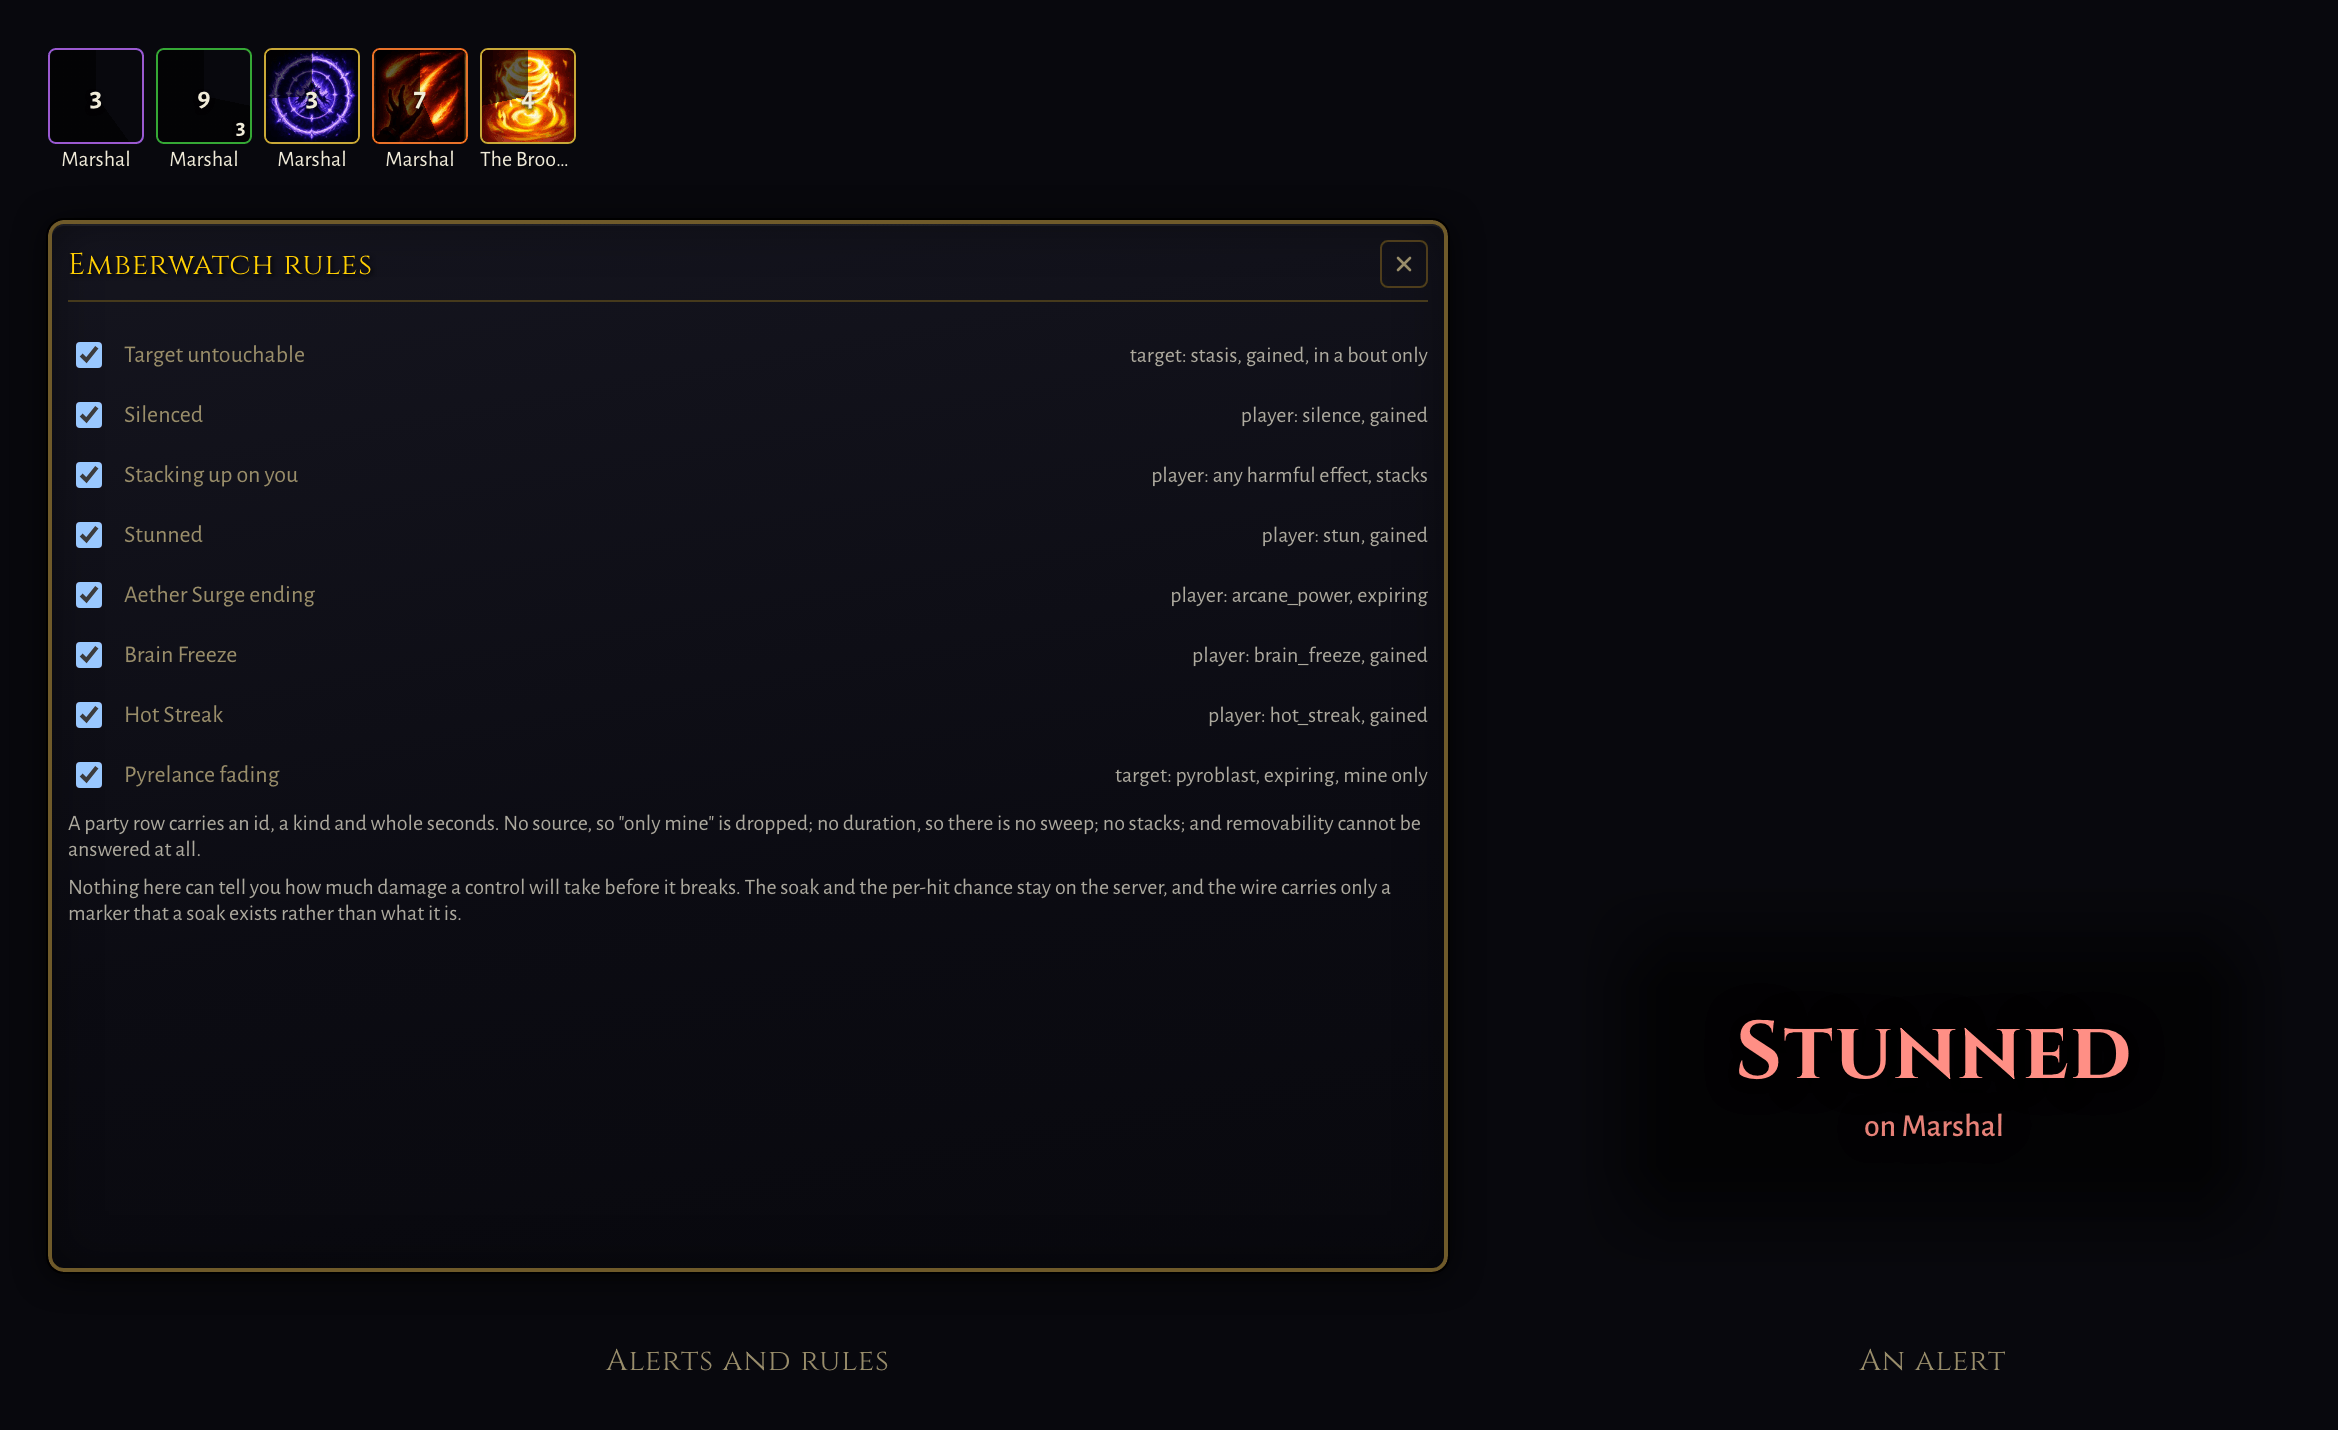
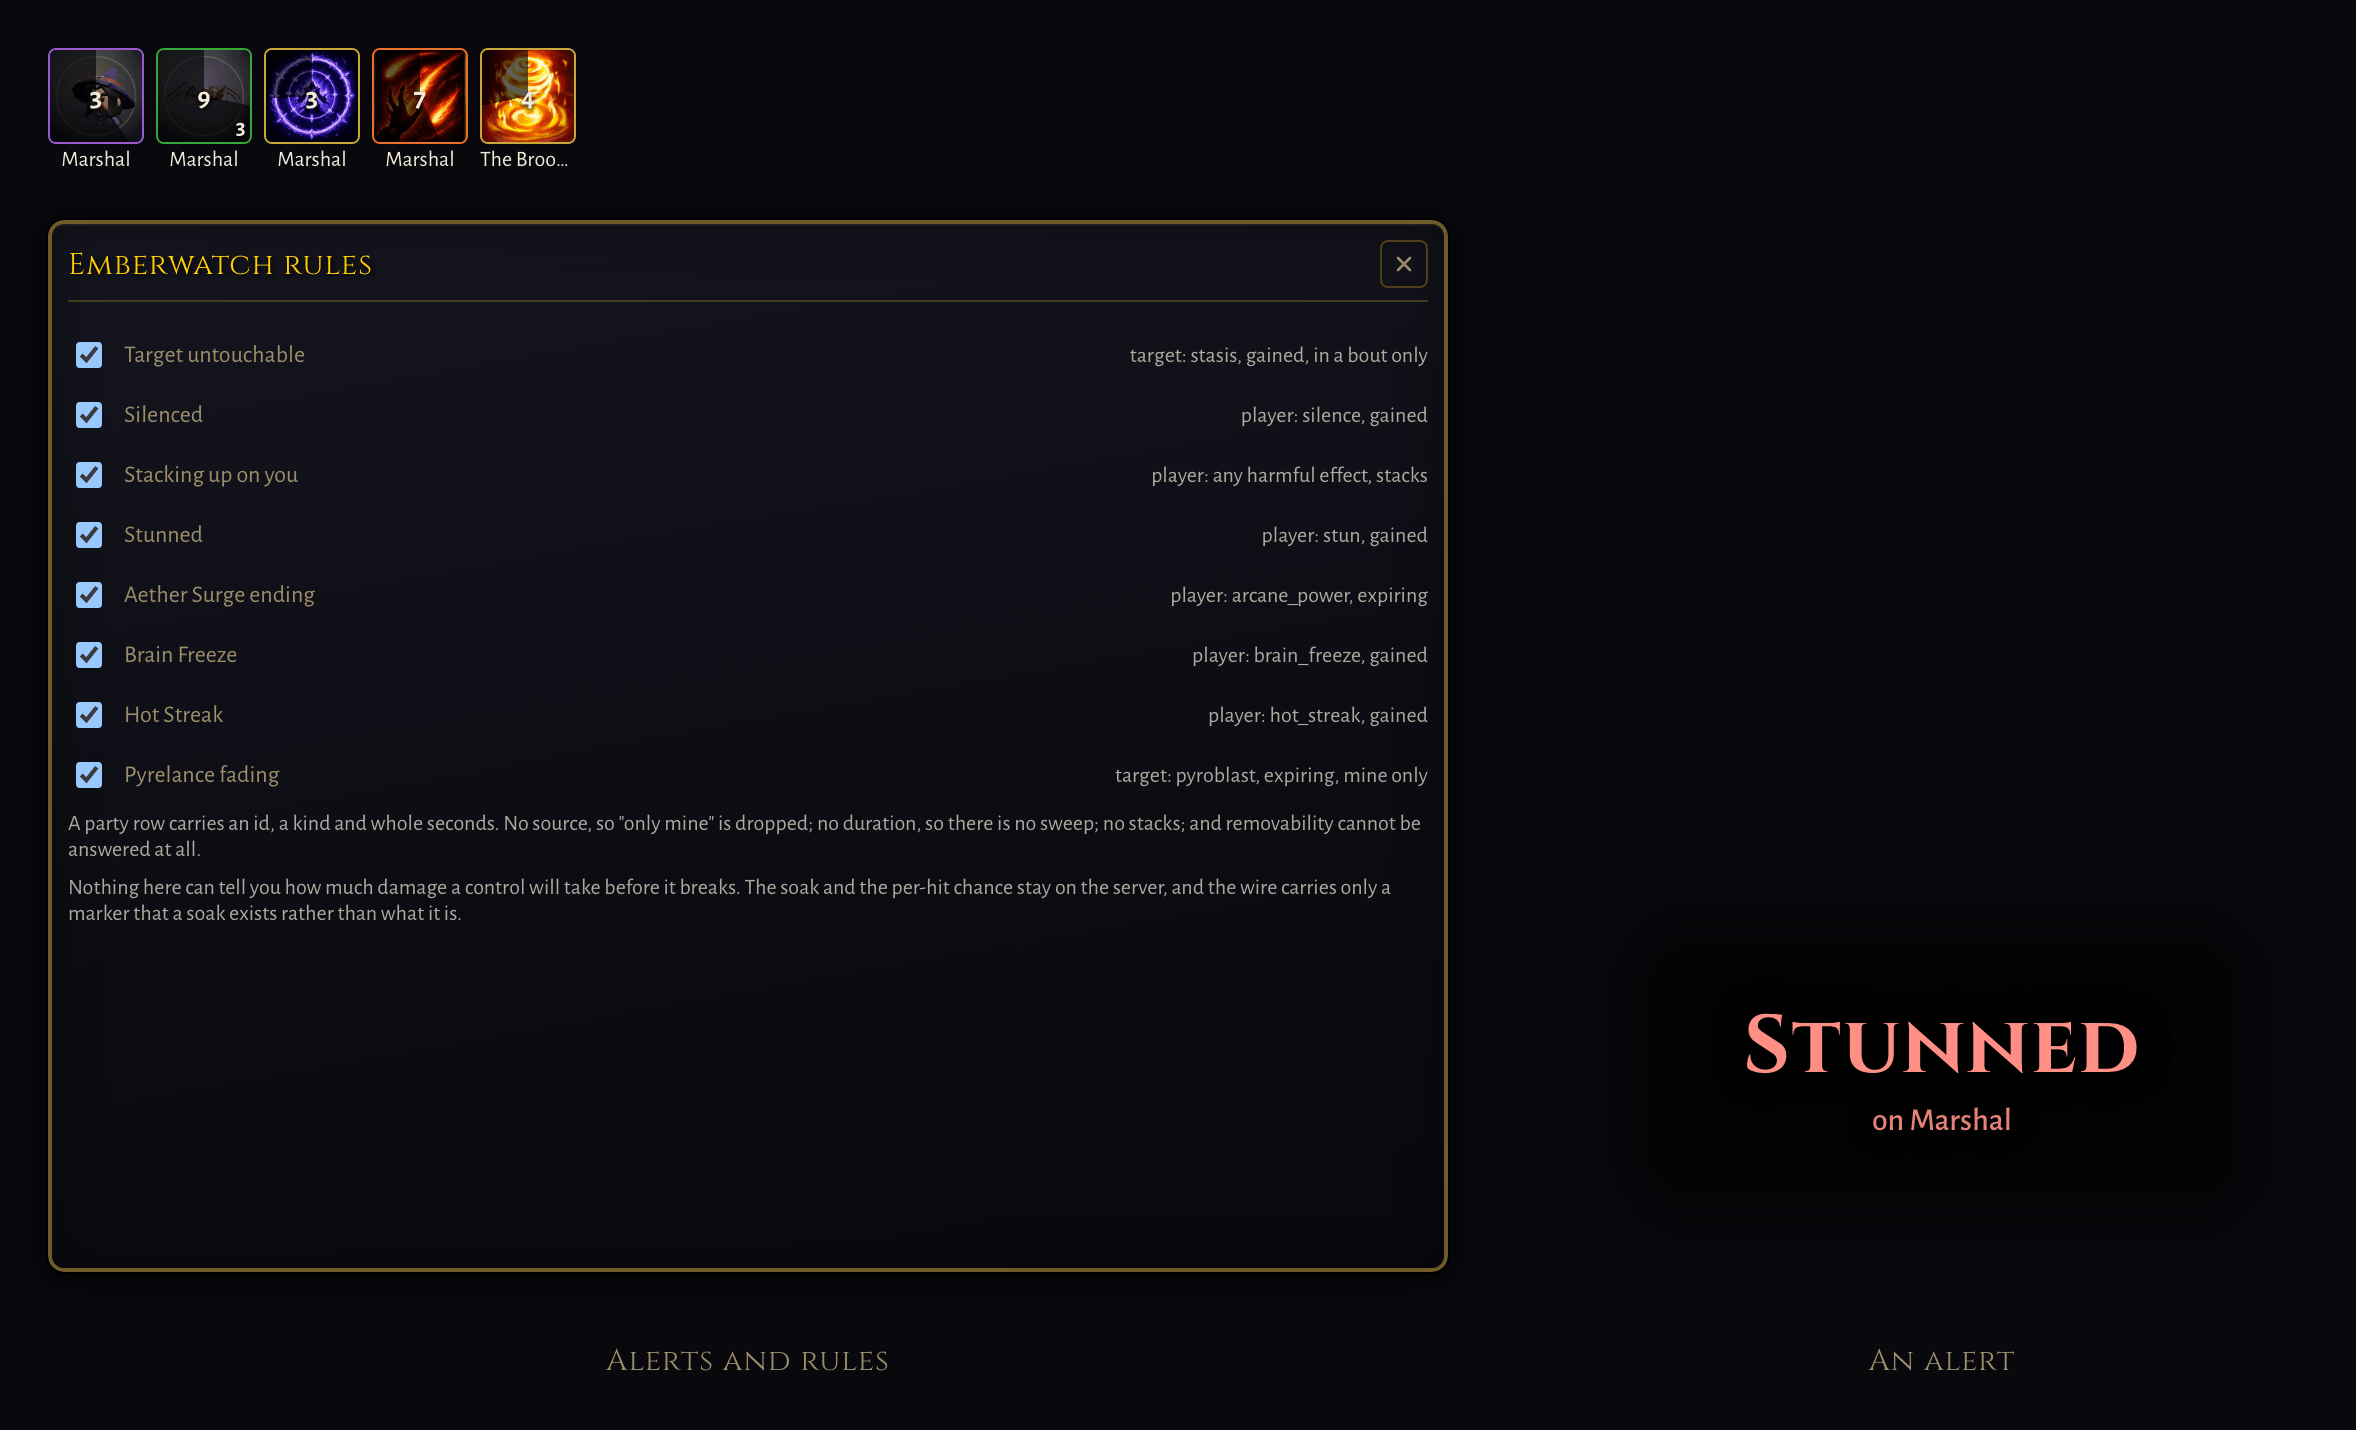
Add the applying mob's portrait to emberwatch alerts with no ability art

diff --git a/addons/emberwatch/main.js b/addons/emberwatch/main.js
@@ -29,8 +29,10 @@
 // before it breaks. The soak and the per-hit chance never leave the server, and the wire
 // carries a bare presence marker in a field the published `Aura` does not declare.
 //
-// An effect a mob applied has no art anywhere: the game composites aura icons at run time,
-// so the only file to point at is the applying ability's, filed per player class.
+// An effect a mob applied has no icon anywhere: the game composites aura icons at run time,
+// so the only ability file to point at is filed per player class. What a mob does have is a
+// PORTRAIT, so those squares carry the face of whatever applied the effect, said out loud in
+// the tooltip and in the accessible name rather than left to be read off the picture.
 //
 // `world.abilities` is deliberately not consulted for a name. An entity's aura carries one
 // on the wire; a party row carries none, and a spellbook would answer for your own kit and
@@ -198,13 +200,31 @@ function reassemble() {
   assemble();
 }
 
-/** Art is filed per player class, so a mob's effect resolves through nothing, and a lockout id 404s. */
+/**
+ * The picture for an alert, and whose face it is when it is not the effect's own.
+ *
+ * Ability art is filed per player class, so an effect a mob applied resolves through nothing: the
+ * game composites those icons on a canvas from a module no addon can reach, and a lockout id 404s.
+ * A mob's PORTRAIT is a file, and every catalogued template ships one, so the square is filled by
+ * the thing that applied the effect rather than left blank. `castBy` is what makes that honest:
+ * the tooltip and the accessible name both say whose face it is, because a portrait answers a
+ * different question from an ability icon and a square that does not say which is a guess.
+ *
+ * An npc is deliberately not portrayed. The game draws a crest for one rather than a portrait, so
+ * `/ui/mobs/` would 404 and the slot would go back to being empty by a longer route.
+ */
 function artOf(auraId, sourceId) {
   const caster = woc.world.entities.get(sourceId);
-  if (caster === undefined || caster.kind !== 'player') {
-    return null;
+  if (caster === undefined) {
+    return { art: null, castBy: null };
   }
-  return woc.ui.icon.ability(auraId, caster.templateId);
+  if (caster.kind === 'player') {
+    return { art: woc.ui.icon.ability(auraId, caster.templateId), castBy: null };
+  }
+  if (caster.kind !== 'mob') {
+    return { art: null, castBy: null };
+  }
+  return { art: woc.ui.icon.mob(caster.templateId), castBy: caster.name };
 }
 
 /** `mine` is the clause a dot tracker cannot skip. */
@@ -266,7 +286,7 @@ function fromAura(rule, unit, unitKey, aura) {
     remaining: aura.remaining,
     duration: aura.duration,
     encounterOwned: aura.unbreakableControl === true,
-    art: artOf(aura.id, aura.sourceId),
+    ...artOf(aura.id, aura.sourceId),
   };
 }
 
@@ -291,6 +311,7 @@ function fromRow(rule, member, row) {
     duration: null,
     encounterOwned: false,
     art: null,
+    castBy: null,
   };
 }
 
@@ -595,6 +616,12 @@ function remainingLine(found) {
 
 function extraLines(found) {
   const lines = [];
+  if (found.castBy !== null) {
+    lines.push({
+      text: `Pictured: ${found.castBy}, which applied it. A mob's effect has no icon of its own.`,
+      tone: 'muted',
+    });
+  }
   if (found.encounterOwned) {
     lines.push({ text: 'The encounter owns this one: nothing you do breaks it.', tone: 'danger' });
   }
@@ -682,9 +709,13 @@ function createPin(entry) {
   };
 }
 
-/** A tile is all art, so everything it says has to be in its accessible name too. */
+/** A tile is all art, so everything it says has to be in its accessible name too, the face included. */
 function labelFor(found) {
-  return `${found.rule.label}: ${found.name} on ${found.who}`;
+  const said = `${found.rule.label}: ${found.name} on ${found.who}`;
+  if (found.castBy === null) {
+    return said;
+  }
+  return `${said}, from ${found.castBy}`;
 }
 
 /** Full rather than empty with no denominator: an empty square reads as an effect already gone. */

diff --git a/addons/emberwatch/main.test.ts b/addons/emberwatch/main.test.ts
@@ -291,6 +291,8 @@ interface Harness extends AddonHarness {
   /** What the strip says it is not showing. */
   overflow: () => string;
   labelOf: (cellKey: string) => string;
+  /** The tile's picture, or empty for a square drawing none. */
+  artOf: (cellKey: string) => string;
   valueOf: (cellKey: string) => string;
   countOf: (cellKey: string) => string;
   sweepOf: (cellKey: string) => string;
@@ -454,6 +456,13 @@ async function start(opts: StartOpts = {}): Promise<Harness> {
     overflow: () => document.querySelector('.woc-ew-overflow')?.textContent ?? '',
     labelOf: (cellKey) =>
       cellFor(cellKey)?.querySelector('.woc-tile')?.getAttribute('aria-label') ?? '',
+    artOf: (cellKey) => {
+      const art = cellFor(cellKey)?.querySelector<HTMLImageElement>('.woc-tile-art');
+      if (art === null || art === undefined || art.hidden) {
+        return '';
+      }
+      return art.getAttribute('src') ?? '';
+    },
     valueOf: (cellKey) => textIn(cellKey, '.woc-tile-value'),
     countOf: (cellKey) => textIn(cellKey, '.woc-tile-count'),
     sweepOf: (cellKey) =>
@@ -678,6 +687,76 @@ describe('your own copy of an effect two people applied', () => {
 
     expect(h.drawn()).toHaveLength(2);
     expect(h.valueOf(key('dot', 'target', 'corruption', ALLY))).toBe('18');
+  });
+});
+
+// A square is the whole display, so what is in it is the addon's answer to "what is this".
+// Ability art exists for a player's kit and for nothing a mob casts, and the two cases below are
+// the pair a version that resolved everything through `icon.ability` would pass on one of.
+describe('the picture on a tile', () => {
+  const Silenced: RuleSpec = {
+    id: 'silenced',
+    label: 'Silenced',
+    unit: 'player',
+    kind: 'silence',
+    on: 'gained',
+  };
+
+  const MyDot: RuleSpec = {
+    id: 'dot',
+    label: 'Blackrot',
+    unit: 'target',
+    auraId: 'corruption',
+    on: 'gained',
+  };
+
+  /** A mob's, so its id is in no class manifest and never will be. */
+  const Shriek: Effect = {
+    id: 'silence_gnoll',
+    name: 'Silencing Shriek',
+    kind: 'silence',
+    remaining: 3,
+  };
+
+  const FromFoe = key('silenced', 'player', 'silence_gnoll', FOE);
+
+  it('carries the portrait of the mob that applied it', async () => {
+    const h = await run({ rules: rulesFile([Silenced]) });
+    h.afflict(ME, { ...Shriek, sourceId: FOE });
+    h.frame();
+
+    expect(h.artOf(FromFoe)).toBe('/ui/mobs/gnoll.webp');
+  });
+
+  // A portrait answers a different question from an ability icon, so the square has to say which
+  // it is drawing. Both routes, because a tile is art and a screen reader gets none of it.
+  it('says whose face it is, in the tooltip and in the accessible name', async () => {
+    const h = await run({ rules: rulesFile([Silenced]) });
+    h.afflict(ME, { ...Shriek, sourceId: FOE });
+    h.frame();
+
+    expect(h.hover(FromFoe)).toContain('Pictured: Grimjaw');
+    expect(h.labelOf(FromFoe)).toContain('from Grimjaw');
+  });
+
+  it('carries the ability art for an effect you applied, and pictures nobody', async () => {
+    const h = await run({ rules: rulesFile([MyDot]) });
+    h.select(FOE);
+    h.afflict(FOE, { ...CORRUPTION, sourceId: ME });
+    h.frame();
+
+    const mine = key('dot', 'target', 'corruption', ME);
+    expect(h.artOf(mine)).toBe('/ui/skills/warlock/corruption.webp');
+    expect(h.hover(mine)).not.toContain('Pictured');
+  });
+
+  // The caster is the only route to a picture, so a source out of interest scope has none.
+  it('draws no picture for a caster no entity answers to', async () => {
+    const h = await run({ rules: rulesFile([Silenced]) });
+    h.afflict(ME, Shriek);
+    h.frame();
+
+    expect(h.artOf(key('silenced', 'player', 'silence_gnoll'))).toBe('');
   });
 });
 

diff --git a/addons/emberwatch/stage.ts b/addons/emberwatch/stage.ts
@@ -11,10 +11,10 @@
 // frost, which cannot both be in play, and the pane lists both because a rule is switched off by
 // hand rather than by a spec nothing on the wire states.
 //
-// The five tiles are one of each thing the strip can say, and the three artless ones each have a
-// different reason: a rule anchored on a KIND names no ability at all, an aura id that is not an
-// ability id has no file whatever the caster resolves to, and one ability's icon is composited at
-// run time from a module an addon cannot reach.
+// The five tiles are one of each thing the strip can say, and the two the player did not cast are
+// the reason `artOf` has a second branch: their ids are the mob's own, in no class manifest and in
+// nothing an addon can reach, so those squares carry the applying mob's PORTRAIT. Both mobs here
+// are catalogued templates with committed portrait art, which every mob template has.
 //
 // The dot on the target carries `mine`, which is the clause the whole addon turns on: two mages
 // on one boss both leave a `pyroblast`, and only one is worth a global.
